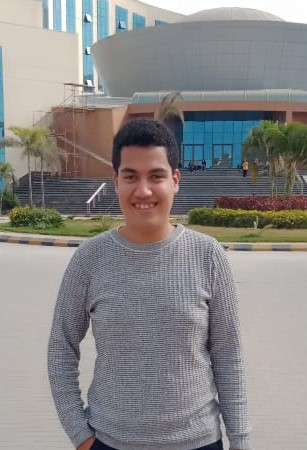
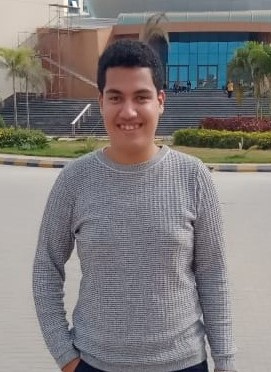
ahmed abdelmaksoud added in about

diff --git a/src/components/about.jsx b/src/components/about.jsx
@@ -3,9 +3,11 @@ import hema from "../images/hema.jpeg";
 import hazem from "../images/hazem.jpeg";
 import hassan from "../images/hassan.jpeg";
 import adel2 from "../images/adel2.jpeg";
+import abdelmaksoud from "../images/abdelmaksoud.jpeg";
 
 class About extends Component {
   state = {};
+
   render() {
     return (
       <div className="card">
@@ -15,8 +17,28 @@ class About extends Component {
           </center>
         </div>
 
-        <div className="card extra-padding">
+        <div className="card extra-padding-card">
           <div className="card-deck">
+            <div className="card enabled_hover">
+              <img src={abdelmaksoud} className="card-img-top" alt="..."></img>
+              <div className="card-body">
+                <h5 className="card-title">Ahmed Abdelmaksoud</h5>
+                <p className="card-text">Frontend and Styling.</p>
+                <p className="card-text">
+                  <small className="text-muted">Team member</small>
+                </p>
+              </div>
+            </div>
+            <div className="card enabled_hover">
+              <img src={hassan} className="card-img-top" alt="..."></img>
+              <div className="card-body">
+                <h5 className="card-title">Hassan Elsayed</h5>
+                <p className="card-text">Frontend and Styling.</p>
+                <p className="card-text">
+                  <small className="text-muted">Team member</small>
+                </p>
+              </div>
+            </div>
             <div className="card enabled_hover">
               <img src={hema} className="card-img-top" alt="..."></img>
               <div className="card-body">
@@ -37,26 +59,7 @@ class About extends Component {
                 </p>
               </div>
             </div>
-            <div className="card enabled_hover">
-              <img src={hassan} className="card-img-top" alt="..."></img>
-              <div className="card-body">
-                <h5 className="card-title">Hassan Elsayed</h5>
-                <p className="card-text">Frontend and Styling.</p>
-                <p className="card-text">
-                  <small className="text-muted">Team member</small>
-                </p>
-              </div>
-            </div>
-            <div className="card enabled_hover">
-              <img src={hassan} className="card-img-top" alt="..."></img>
-              <div className="card-body">
-                <h5 className="card-title">Hassan Elsayed</h5>
-                <p className="card-text">Frontend and Styling.</p>
-                <p className="card-text">
-                  <small className="text-muted">Team member</small>
-                </p>
-              </div>
-            </div>
+
             <div className="card enabled_hover">
               <img src={hazem} className="card-img-top" alt="..."></img>
               <div className="card-body">

diff --git a/src/App.css b/src/App.css
@@ -92,6 +92,10 @@
   padding: 25px;
 }
 
+.extra-padding-card {
+  padding: 20px;
+}
+
 .column-image {
   position: right;
   background-size: cover;
